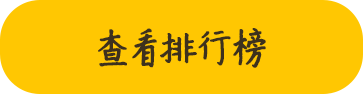
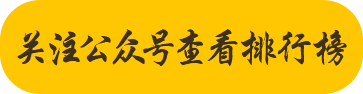
tips

Changed region(s): [[0.0303, 0.2979, 0.9697, 0.7234]]

diff --git a/src/pages/tips/Tips.vue b/src/pages/tips/Tips.vue
@@ -1,32 +1,39 @@
 <template>
   <div>
-    <div class="txt">
-      <img style="width: 56.27vw;margin-bottom: 3.98vh;" src="../../assets/comments/theme.png">
-      <img style="width: 80vw;" src="../../assets/leaveInfo/Activity-rules.png">
-    </div>
-    <img class="btn" src="../../assets/leaveInfo/Save-the-view.png" @click="toComments">
+    <img class="title" src="../../assets/leaveInfo/theme.png">
+    <img class="content" src="../../assets/leaveInfo/Activity-rules.png">
+    <img class="btn" src="../../assets/leaveInfo/Save-the-view.png" @click="showDialog">
+
+    <el-dialog title="扫码关注公众号" :visible.sync="dialogVisible" width="90%"
+               center :show-close="false" :append-to-body="true">
+      <img src="../../assets/gongzhonghao.jpg">
+    </el-dialog>
   </div>
 </template>
 
 <script>
   export default {
-    methods: {
-      toComments () {
-        this.$store.commit('moveDown')
+    data () {
+      return {
+        dialogVisible: false,
       }
-    }
+    },
+    methods: {
+      showDialog () {
+        this.dialogVisible = true
+      }
+    },
+
   }
 </script>
 
 <style scoped lang="scss">
-  .bg-container img {
-    vertical-align: middle;
-    height: 50vh;
+  .title {
+    width: 63.33vw;
+    margin: 20vh auto 3.98vh;
   }
 
-  .txt {
-    z-index: 3;
-    top: 25.21vh;
-    position: absolute;
+  .content {
+    width: 71.07vw;
   }
 </style>

diff --git a/src/pages/comments/Comments.vue b/src/pages/comments/Comments.vue
@@ -13,15 +13,10 @@
       <img v-if="isPullingUp" class="loading bottom" src="../../assets/loading.gif" alt="loading">
     </div>
     <div class="btnBox">
-      <img class="" src="../../assets/comments/button1.png" @click="follow">
+      <img class="" src="../../assets/comments/button1.png">
       <img class="" src="../../assets/comments/button2.png" @click="toPersonalInfo">
     </div>
 
-
-    <el-dialog title="扫码关注公众号" :visible.sync="dialogVisible" width="90%"
-               center :show-close="false" :append-to-body="true">
-      <img src="../../assets/gongzhonghao.jpg">
-    </el-dialog>
   </div>
 </template>
 
@@ -33,7 +28,6 @@
     components: {CommentItem},
     data () {
       return {
-        dialogVisible: false,
         isBusy: false,
         clientY: null,
         transformY: 0,
@@ -132,9 +126,6 @@
       toPersonalInfo () {
         this.$store.commit('moveTo', 7)
       },
-      follow () {
-        this.dialogVisible = true
-      }
     },
     watch: {
       OrderBy () {

diff --git a/src/pages/MainFrame.vue b/src/pages/MainFrame.vue
@@ -33,11 +33,11 @@
       <img class="logo" src="../assets/logo.png">
     </div>
     <div class="page-9 page">
-      <PersonalInfo :moveIn="current===8"/>
+      <Tips :moveIn="current===8"/>
       <img class="logo" src="../assets/logo.png">
     </div>
     <div class="page-10 page">
-      <Tips :moveIn="current===9"/>
+      <PersonalInfo :moveIn="current===9"/>
       <img class="logo" src="../assets/logo.png">
     </div>
     <div class="page-11 page">
@@ -84,6 +84,7 @@
           start = 9
           break
       }
+      this.$store.commit('moveTo', 8)
     },
     components: {
       Home, Guide1, Guide2, Guide3, InfoCollect, PersonalInfo, Prize, Tips, Comments, Guide4, Flow

diff --git a/src/App.vue b/src/App.vue
@@ -137,7 +137,7 @@
   .btn {
     width: 48.4vw;
     position: absolute;
-    bottom: 1.7vh;
+    bottom: 2vh;
     left: 50%;
     transform: translateX(-50%);
   }
